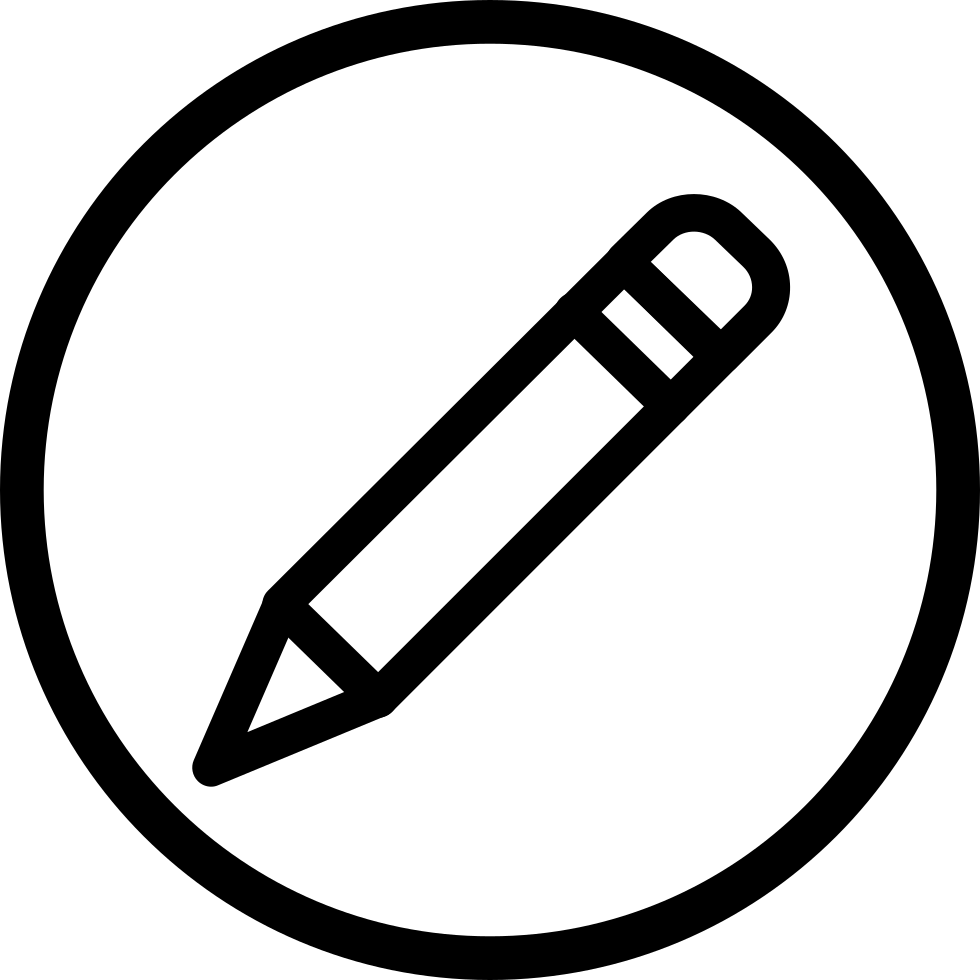
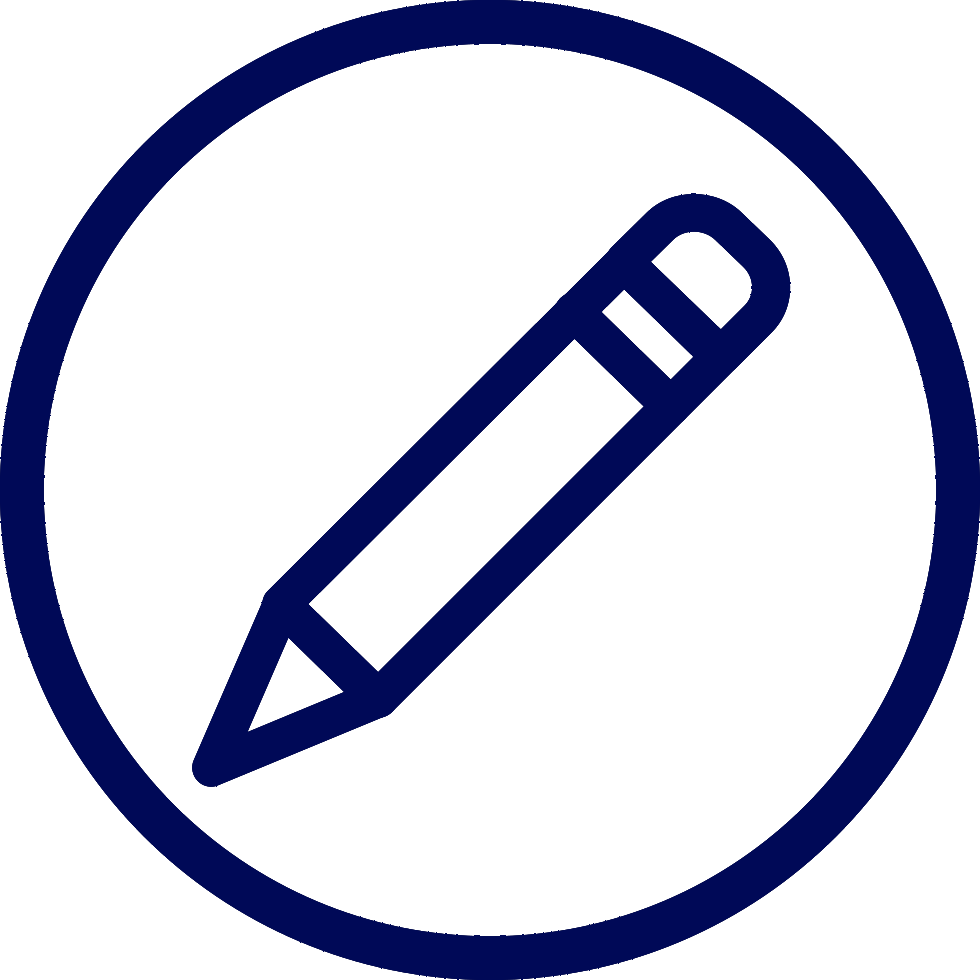
220116_보드리스트 css 추가_더미데이터 추가

Changed region(s): [[0.0, 0.0, 1.0, 1.0], [0.1837, 0.1837, 0.8265, 0.8265]]

diff --git a/client/src/components/commons/Board_List.js b/client/src/components/commons/Board_List.js
@@ -3,18 +3,39 @@ import styled from "styled-components";
 import Axios from 'axios';
 // import { Link } from 'react-router-dom';
 import { BrowserRouter as Router, Route, Link } from 'react-router-dom';
+import img_Add from '../../assets/img/pencil_01.png';
 
 const BoardComponent = styled.div`
     /* background-color: rgba(255, 105, 180, 0.548); */
-    max-width: 1100px;
+    max-width: 1152px;
     height: 100vh;
     margin: 0 auto;
-    /* padding: 0 150px 0 150px; */
+`;
+
+const BoardPublicTitle = styled.div`
+    width: 1152px;
+    height: 80px;
+    line-height: 80px;
+    color: #000957;
+    font-size: 35px;
+    border-radius: 12px;
+    border: solid #000957 1px;
+    font-family: 'Roboto', sans-serif;
+    box-shadow: rgba(0, 0, 0, 0.15) 0px 5px 15px;
+    text-align: center;
+    vertical-align: middle;
+    position: relative;
+`;
+
+const BoardLine = styled.div`
+    width: 1152px;
+    height: 20px;
+    border-bottom: solid #000957 1px;
 `;
 
 const BoardContainer = styled.div`
     /* background-color: red; */
-    width: 33%;
+    width: 384px;
     float: left;
 `;
 
@@ -23,29 +44,28 @@ const BoardBox = styled.div`
     /* width: 300px; */
     width: 100%;
     margin: auto;
-    margin-top: 30px;
+    margin-top: 20px;
 `;
 
 const ImgBox = styled.div`
     position: relative;
     border-radius: 10px;
-    width: 300px;
-    height: 300px;
+    width: 365px;
+    height: 375px;
     overflow: hidden;
+    margin-left: 9px;
 `;
 
 const BoardImg = styled.div`
-    width: 300px;
-    height: 300px;
-    overflow: hidden;
+    /* width: 350px; */
+    /* height: 377px; */
+    /* overflow: hidden; */
     /* position: relative; */
-    border-radius: 10px;
+    /* border-radius: 10px; */
 `;
 
 const ImgEle = styled.img`
-    width: 100%;
-    width: 300px;
-    border-radius: 10px;
+    object-fit: cover;
     position: absolute;
     top: 50%;
     left: 50%;
@@ -53,35 +73,94 @@ const ImgEle = styled.img`
 `;
 
 const BoardTitle = styled.div`
-    bottom: 10%;
+    /* background-color: grey; */
+    bottom: 20%;
     width: 300px;
+    height: 30px;
     position: absolute;
-    color: black;
+    color: white;
     font-weight: 700;
+    margin-left: 15px;
+    font-size: 20px;
+    font-weight: bold;
+    mix-blend-mode: difference;
+    font-family: 'Gothic A1', sans-serif;
+
+    /* 줄바꿈 방지 */
+    white-space : nowrap; 
+    /* 넘어가면 안보이게 */
+    overflow : hidden;
+    /* 끝에 ... 처리 */
+    text-overflow : ellipsis;
 `;
 const BoardContent = styled.div`
-    bottom: 0%;
-    width: 300px;
+    /* background-color: green; */
+    bottom: 8%;
+    width: 340px;
     position: absolute;
-    color: black;
+    color: white;
     font-weight: 700;
+    margin-left: 10px;
+    mix-blend-mode: difference;
+    font-family: 'Gothic A1', sans-serif;
+
+    line-height: 1.2;
+    /* 줄바꿈 방지 */
+    /* white-space : nowrap;  */
+    /* 넘어가면 안보이게 */
+    overflow : hidden;
+    /* 끝에 ... 처리 */
+    text-overflow : ellipsis;
+    display: -webkit-box;
+    -webkit-box-orient: vertical;
+    /* 표출될 텍스트 줄 수 */
+    -webkit-line-clamp: 2;
 `;
 
 const InfoBox = styled.div`
-    width: 300px;
-    height: 30px;
-    margin-top: 5px;
+    /* background-color: red; */
+    width: 365px;
+    height: 25px;
+    /* margin-top: 5px; */
+    /* margin-left: 9px; */
+    /* border-bottom: 1px solid #000957; */
+
+    position: absolute;
+    bottom: 0%;
 `;
 
 const BoardDate = styled.div`
+    /* background-color: green; */
     float: left;
-    margin-left: 15px;
+    margin-left: 18px;
+    font-family: 'Gothic A1', sans-serif;
+    color: white;
+    mix-blend-mode: difference;
 `;
 
 const BoardWriter = styled.div`
+    /* background-color: violet; */
     float: right;
-    margin-right: 15px;
+    margin-right: 18px;
+    font-size: 18px;
+    color: white;
+    mix-blend-mode: difference;
+    
+    /* color: #344CB7; */
+
+    font-family: 'Gothic A1', sans-serif;
 `;
+
+const AddBtnImg = styled.img`
+    right: 8px;
+    top: 8px;
+    /* transform: translate(-50%, 0); */
+    width: 60px;
+    /* position: fixed; */
+    position: absolute;
+`;
+
+
 
 function Board_List() {
 
@@ -112,7 +191,18 @@ function Board_List() {
 
     return (
         <>
+            <link rel="preconnect" href="https://fonts.googleapis.com" />
+            <link rel="preconnect" href="https://fonts.gstatic.com" />
+            <link href="https://fonts.googleapis.com/css2?family=Gothic+A1&family=Roboto:wght@900&display=swap" rel="stylesheet"></link>
+
             <BoardComponent>
+                <BoardPublicTitle>
+                    SHARE SPORTS INFORMATION
+                    <Link to="/board/Write">
+                        <AddBtnImg src={img_Add}/>
+                    </Link>
+                </BoardPublicTitle>
+                <BoardLine />
                 {boardGetData && boardGetData.map((item, index) => {
                     return (
                         
@@ -142,8 +232,8 @@ function Board_List() {
                                         <BoardContent>
                                             {item.content}
                                         </BoardContent>
-                                    </ImgBox>
-                                    <InfoBox>
+
+                                        <InfoBox>
                                         <BoardDate>
                                             2022.01.02
                                         </BoardDate>
@@ -151,45 +241,13 @@ function Board_List() {
                                             {item.name}
                                         </BoardWriter>
                                     </InfoBox>
+                                    </ImgBox>
                                 </BoardBox>
-                                
                             </BoardContainer>
                     );
                 })}
-                
-                <Link to="/board/Write">
-                    <button>
-                        글씄ㅅ
-                    </button>
-                </Link>
             </BoardComponent>
         </>
-        
-        // REACT PART
-        // // boardRead.js
-        //    let navigate = useNavigate(); 
-        // const [contents, setContents] = useState({});
-        
-        
-        //  const onClick = (e) => {
-        //   const idx = e.target.id
-        // axios.put("http://localhost:3001/board/hit",{bidx:idx})
-        //     .then(response => {
-        //       console.log(response);
-        //     })
-        //     .catch(error => {
-        //         console.log(error.response.data)
-        //         alert(error.response.data.error)
-        //     })
-        
-        //   navigate(`/board/detail/${idx}`)
-        //  }
-        // return //-->div
-        // <>
-        // 작성자 {response.id}
-        // 글제목 {response.title}
-        // 내용 {response.desc}
-        // </>
     );
 }
 

diff --git a/client/src/components/commons/Board_Write.js b/client/src/components/commons/Board_Write.js
@@ -6,12 +6,40 @@ import Axios from 'axios';
 import img_Add from '../../assets/img/pencil_01.png';
 import Board_List from './Board_List';
 
+const BoardPublicTitle = styled.div`
+    width: 1152px;
+    height: 80px;
+    line-height: 80px;
+    color: #000957;
+    font-size: 35px;
+    border-radius: 12px;
+    border: solid #000957 1px;
+    font-family: 'Roboto', sans-serif;
+    box-shadow: rgba(0, 0, 0, 0.15) 0px 5px 15px;
+    text-align: center;
+    vertical-align: middle;
+    position: relative;
+
+    margin: 0 auto;
+`;
+
+const BoardLine = styled.div`
+    width: 1152px;
+    height: 20px;
+    border-bottom: solid #000957 1px;
+
+    margin: 0 auto;
+`;
+
 const WriteContainer = styled.div`
     /* background-color: red; */
-    border: 3px solid #000957;
+    border: solid #000957 1px;
     border-radius: 15px;
     padding: 10px;
+    width: 1152px;
     height: 100%;
+    margin: 0 auto;
+    margin-top: 20px;
 `;
 
 const ViewTitle = styled.div`
@@ -235,36 +263,10 @@ function Board_Write () {
 
     return (
         <>
-            {/* <Modal 
-                isOpen={modalIsOpen} 
-                onRequestClose={() => setModalIsOpen(false)}
-                style={{
-                    overlay: {
-                    position: "fixed",
-                    top: 0,
-                    left: 0,
-                    right: 0,
-                    bottom: 0,
-                    backgroundColor: "rgba(255, 255, 255, 0.75)",
-                    },
-                    content: {
-                    width: "650px",
-                    height: "800px",
-                    position: "absolute",
-                    top: "50%",
-                    left: " 50%",
-                    transform: "translate(-50%, -50%)",
-                    border: "1px solid #eee",
-                    borderRadius: "15px",
-                    background: "#fff",
-                    overflow: "auto",
-                    WebkitOverflowScrolling: "touch",
-                    outline: "none",
-                    padding: "20px",
-                    textAlign: "center",
-                    },
-                }}
-            > */}
+                <BoardPublicTitle>
+
+                </BoardPublicTitle>
+                <BoardLine />
                  <WriteContainer>
                     <ViewTitle>글쓰기</ViewTitle>
                     <NameBox>
@@ -321,23 +323,23 @@ function Board_Write () {
                     </ImageContainer>
 
                     <BtnContainer>
-                        {/* <Link to={"/board"}> */}
+                        
                             {/* <button></button> */}
                             {/* <AddBtn> ADD </AddBtn> */}
                             <AddBtn onClick={AddSubmit}> ADD </AddBtn>
-                        {/* </Link> */}
-                        {/* <CancelBtn onClick={()=> setModalIsOpen(false)}> CANCEL </CancelBtn> */}
+                        <Link to={"/board"}>
+                            <CancelBtn> CANCEL </CancelBtn>
+                        </Link>
+                        
                     </BtnContainer>
                 </WriteContainer>
-            {/* </Modal> */}
 
             <AddBtnContainer>
                 {/* <Link to="/board" > */}
-                    <AddBtnImg 
-                        // src={img_Add} onClick={()=> setModalIsOpen(true)}
-                    />
+                    {/* <AddBtnImg  */}
+                        {/* src={img_Add} onClick={()=> setModalIsOpen(true)} */}
+                    {/* /> */}
                 {/* </Link> */}
-                
             </AddBtnContainer>
         </>
     );
